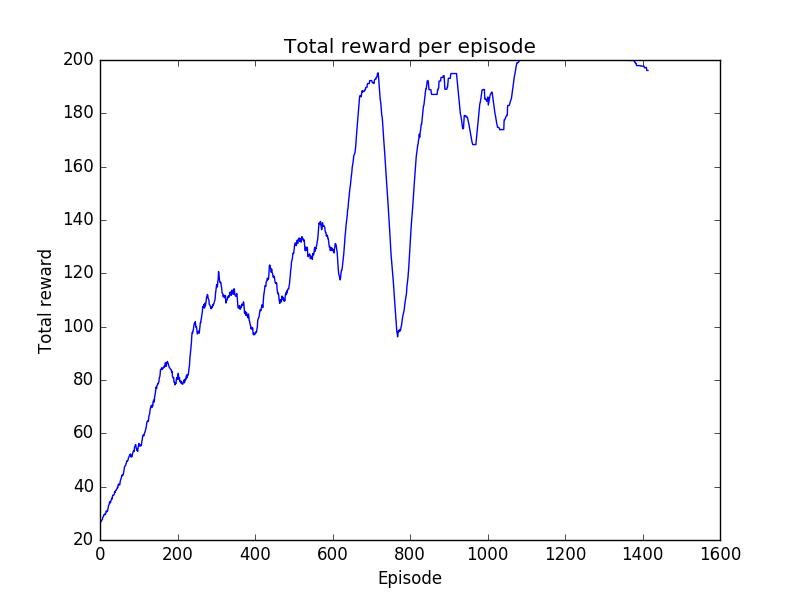
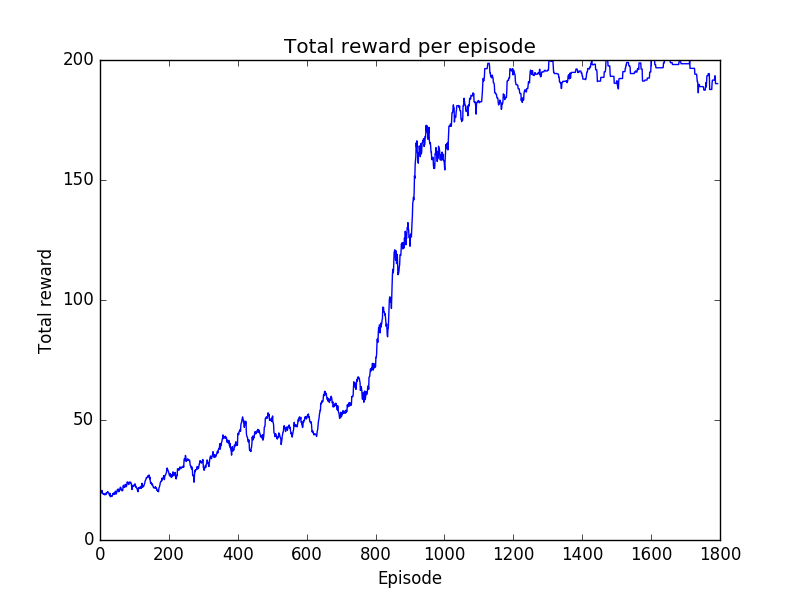
Added Reporter and updated README

diff --git a/A2C.py b/A2C.py
@@ -9,7 +9,8 @@ import logging
 from gym.spaces import Discrete, Box
 from Learner import Learner
 from ActionSelection.CategoricalActionSelection import ProbabilisticCategoricalActionSelection
-from utils import discount_rewards, print_iteration_stats
+from utils import discount_rewards
+from Reporter import Reporter
 
 logging.getLogger().setLevel("INFO")
 
@@ -26,7 +27,7 @@ class A2C(Learner):
             timesteps_per_batch=1000,
             n_iter=200,
             gamma=0.99,
-            actor_learning_rate=0.05,
+            actor_learning_rate=0.01,
             critic_learning_rate=0.05,
             actor_n_hidden=20,
             critic_n_hidden=20
@@ -36,8 +37,6 @@ class A2C(Learner):
         self.actor_input = tf.placeholder(tf.float32, name='actor_input')
         self.actions_taken = tf.placeholder(tf.float32, name='actions_taken')
         self.critic_feedback = tf.placeholder(tf.float32, name='critic_feedback')
-        self.critic_input = tf.placeholder(tf.float32, name='critic_input')
-        self.critic_target = tf.placeholder(tf.float32, name='critic_target')
         self.critic_rewards = tf.placeholder(tf.float32, name='critic_rewards')
 
         # Actor network
@@ -79,34 +78,6 @@ class A2C(Learner):
         self.sess = tf.Session()
         self.sess.run(init)
 
-    def get_trajectory(self, env, episode_max_length, render=False):
-        """
-        Run agent-environment loop for one whole episode (trajectory)
-        Return dictionary of results
-        """
-        observation = env.reset()
-        obs = []
-        actions = []
-        rewards = []
-        action = env.action_space.sample()
-        for _ in range(episode_max_length):
-            (new_observation, rew, done, _) = env.step(action)
-            new_action = self.act(new_observation)
-            obs.append(observation)
-
-            actions.append(action)
-            rewards.append(rew)
-            if done:
-                break
-            if render:
-                env.render()
-            action = new_action
-            observation = new_observation
-        return {"reward": np.array(rewards),
-                "ob": np.array(obs),
-                "action": np.array(actions)
-                }
-
     def act(self, ob):
         """Choose an action."""
         ob = ob.reshape(1, -1)
@@ -119,16 +90,14 @@ class A2C(Learner):
 
     def learn(self, env):
         """Run learning algorithm"""
+        reporter = Reporter()
         config = self.config
         possible_actions = np.arange(self.nA)
+        total_n_trajectories = 0
         for iteration in range(config["n_iter"]):
             # Collect trajectories until we get timesteps_per_batch total timesteps
-            trajectories = []
-            timesteps_total = 0
-            while timesteps_total < config["timesteps_per_batch"]:
-                trajectory = self.get_trajectory(env, config["episode_max_length"])
-                trajectories.append(trajectory)
-                timesteps_total += len(trajectory["reward"])
+            trajectories = self.get_trajectories(env)
+            total_n_trajectories += len(trajectories)
             all_action = np.concatenate([trajectory["action"] for trajectory in trajectories])
             all_action = (possible_actions == all_action[:, None]).astype(np.float32)
             all_ob = np.concatenate([trajectory["ob"] for trajectory in trajectories])
@@ -141,7 +110,7 @@ class A2C(Learner):
 
             episode_rewards = np.array([trajectory["reward"].sum() for trajectory in trajectories])  # episode total rewards
             episode_lengths = np.array([len(trajectory["reward"]) for trajectory in trajectories])  # episode lengths
-            print_iteration_stats(iteration, episode_rewards, episode_lengths)
+            reporter.print_iteration_stats(iteration, episode_rewards, episode_lengths, total_n_trajectories)
             # get_trajectory(self, env, config["episode_max_length"], render=True)
 
 

diff --git a/REINFORCE.py b/REINFORCE.py
@@ -14,7 +14,8 @@ import gym
 from gym.spaces import Discrete, Box
 from Learner import Learner
 from ActionSelection.CategoricalActionSelection import ProbabilisticCategoricalActionSelection
-from utils import discount_rewards, print_iteration_stats
+from utils import discount_rewards
+from Reporter import Reporter
 
 class REINFORCELearner(Learner):
     """
@@ -40,15 +41,13 @@ class REINFORCELearner(Learner):
 
     def learn(self, env):
         """Run learning algorithm"""
+        reporter = Reporter()
         config = self.config
+        total_n_trajectories = 0
         for iteration in range(config["n_iter"]):
             # Collect trajectories until we get timesteps_per_batch total timesteps
-            trajectories = []
-            timesteps_total = 0
-            while timesteps_total < config["timesteps_per_batch"]:
-                trajectory = self.get_trajectory(env, config["episode_max_length"])
-                trajectories.append(trajectory)
-                timesteps_total += len(trajectory["reward"])
+            trajectories = self.get_trajectories(env)
+            total_n_trajectories += len(trajectories)
             all_ob = np.concatenate([trajectory["ob"] for trajectory in trajectories])
             # Compute discounted sums of rewards
             rets = [discount_rewards(trajectory["reward"], config["gamma"]) for trajectory in trajectories]
@@ -64,7 +63,7 @@ class REINFORCELearner(Learner):
             self.sess.run([self.train], feed_dict={self.ob_no: all_ob, self.a_n: all_action, self.adv_n: all_adv, self.N: len(all_ob)})
             episode_rewards = np.array([trajectory["reward"].sum() for trajectory in trajectories])  # episode total rewards
             episode_lengths = np.array([len(trajectory["reward"]) for trajectory in trajectories])  # episode lengths
-            print_iteration_stats(iteration, episode_rewards, episode_lengths)
+            reporter.print_iteration_stats(iteration, episode_rewards, episode_lengths, total_n_trajectories)
             # get_trajectory(self, env, config["episode_max_length"], render=True)
 
 class REINFORCELearnerDiscrete(REINFORCELearner):

diff --git a/Karpathy.py b/Karpathy.py
@@ -8,7 +8,8 @@ import matplotlib.pyplot as plt
 import logging
 
 from Learner import Learner
-from utils import discount_rewards, print_iteration_stats
+from utils import discount_rewards
+from Reporter import Reporter
 from gym.spaces import Discrete, Box
 
 logging.basicConfig(level=logging.INFO,
@@ -103,16 +104,13 @@ class KPLearner(Learner):
                 }
 
     def learn(self, env):
-        # env.monitor.start(sys.argv[1], force=True)
+        reporter = Reporter()
 
         gradient1 = np.zeros_like(self.w1)
         gradient2 = np.zeros_like(self.w2)
 
         rmsprop1 = np.zeros_like(self.w1)
         rmsprop2 = np.zeros_like(self.w2)
-
-        fig = plt.figure()
-        ax1 = fig.add_subplot(1, 1, 1)
 
         iteration = 0  # amount of batches processed
         episode_nr = 0
@@ -150,14 +148,11 @@ class KPLearner(Learner):
                 self.w2 += self.config['learning_rate'] * gradient2 / (np.sqrt(rmsprop2) + 1e-5)
                 gradient1 = np.zeros_like(self.w1)
                 gradient2 = np.zeros_like(self.w2)
-                print_iteration_stats(iteration, episode_rewards, episode_lengths)
+                reporter.print_iteration_stats(iteration, episode_rewards, episode_lengths, episode_nr)
                 mean_rewards.append(episode_rewards.mean())
                 if episode_nr % self.config['draw_frequency'] == 0:
-                    ax1.clear()
-                    ax1.plot(range(len(mean_rewards)), mean_rewards)
-                    fig.canvas.draw()
-                    fig.canvas.flush_events()
-                    plt.show(block=False)
+                    reporter.draw_rewards(mean_rewards)
+
 
 def main():
     if(len(sys.argv) < 3):

diff --git a/Reporter.py b/Reporter.py
@@ -1,0 +1,33 @@
+# -*- coding: utf8 -*-
+
+import matplotlib.pyplot as plt
+import numpy as np
+import logging
+
+class Reporter(object):
+    """Report iteration statistics using text and graphs."""
+    def __init__(self):
+        super(Reporter, self).__init__()
+        self.fig = plt.figure()
+        self.ax1 = self.fig.add_subplot(1, 1, 1)
+
+    def print_iteration_stats(self, iteration, episode_rewards, episode_lengths, total_n_trajectories):
+        """Print statistics about rewards and episode lengths of the current iteration"""
+        logging.info("-----------------")
+        logging.info("Iteration: \t\t %i" % iteration)
+        logging.info("NumTrajs: \t\t %i" % len(episode_rewards))
+        logging.info("NumTimesteps: \t %i" % np.sum(episode_lengths))
+        logging.info("MaxRew: \t\t %s" % episode_rewards.max())
+        logging.info("MeanRew: \t\t %s +- %s" % (episode_rewards.mean(), episode_rewards.std() / np.sqrt(len(episode_rewards))))
+        logging.info("MeanLen: \t\t %s +- %s" % (episode_lengths.mean(), episode_lengths.std() / np.sqrt(len(episode_lengths))))
+        logging.info("Total NumTrajs: \t %i" % total_n_trajectories)
+        logging.info("-----------------")
+        return
+
+    def draw_rewards(self, mean_rewards):
+        """Draw a plot with the mean reward for each batch of episodes."""
+        self.ax1.clear()
+        self.ax1.plot(range(len(mean_rewards)), mean_rewards)
+        self.fig.canvas.draw()
+        self.fig.canvas.flush_events()
+        plt.show(block=False)

diff --git a/utils.py b/utils.py
@@ -17,16 +17,3 @@ def discount_rewards(x, gamma):
     # More efficient version:
     # scipy.signal.lfilter([1],[1,-gamma],x[::-1], axis=0)[::-1]
     return out
-
-
-def print_iteration_stats(iteration, episode_rewards, episode_lengths):
-    """Print statistics about rewards and episode lengths of the current iteration"""
-    logging.info("-----------------")
-    logging.info("Iteration: \t %i" % iteration)
-    logging.info("NumTrajs: \t %i" % len(episode_rewards))
-    logging.info("NumTimesteps: \t %i" % np.sum(episode_lengths))
-    logging.info("MaxRew: \t %s" % episode_rewards.max())
-    logging.info("MeanRew: \t %s +- %s" % (episode_rewards.mean(), episode_rewards.std() / np.sqrt(len(episode_rewards))))
-    logging.info("MeanLen: \t %s +- %s" % (episode_lengths.mean(), episode_lengths.std() / np.sqrt(len(episode_lengths))))
-    logging.info("-----------------")
-    return

diff --git a/Learner.py b/Learner.py
@@ -42,5 +42,14 @@ class Learner(object):
                 "action": np.array(actions)
                 }
 
+    def get_trajectories(self, env):
+        trajectories = []
+        timesteps_total = 0
+        while timesteps_total < self.config["timesteps_per_batch"]:
+            trajectory = self.get_trajectory(env, self.config["episode_max_length"])
+            trajectories.append(trajectory)
+            timesteps_total += len(trajectory["reward"])
+        return trajectories
+
     def learn(self, env):
         pass

diff --git a/MountainCar.py b/MountainCar.py
@@ -18,7 +18,7 @@ epsilon = 0  # fully greedy in this case
 alpha = 0.05 * (0.5 / m)
 gamma = 1
 
-steps_per_episode = 200  # Maximum number of allowed steps per episode, as determined (for this environment) by the gym library
+steps_per_episode = env.spec.timestep_limit  # Maximum number of allowed steps per episode, as determined (for this environment) by the gym library
 
 O = env.observation_space
 x_low, y_low = O.low

diff --git a/cem.py b/cem.py
@@ -98,7 +98,6 @@ else:
 theta_mean = np.zeros(dim_theta)
 theta_std = np.ones(dim_theta)
 
-# Now, for the algorithm
 for iteration in range(n_iter):
     # Sample parameter vectors
     thetas = [np.random.normal(theta_mean, theta_std, dim_theta) for _ in range(batch_size)]

diff --git a/README.md b/README.md
@@ -43,11 +43,11 @@ Then you can run the Sarsa + Function approximation using:
 ```
 python MountainCar.py <episodes_to_run> <monitor_target_directory>
 ```
-You can run the REINFORCE algorithm using:
+You can run the `REINFORCE`, `Karpathy` or `A2C` algorithm using:
 ```
 python REINFORCE.py <environment_name> <monitor_target_directory>
 ```
-You can run the Kartpathy policy gradient algorithm (applied to the _CartPole-v0_ environment) using:
+You can plot the episode lengths and total reward per episode graphs using:
 ```
-python KarpathyLearner.py <monitor_target_directory>
+python plot_statistics.py <path_to_stats.json> <moving_average_window>
 ```
